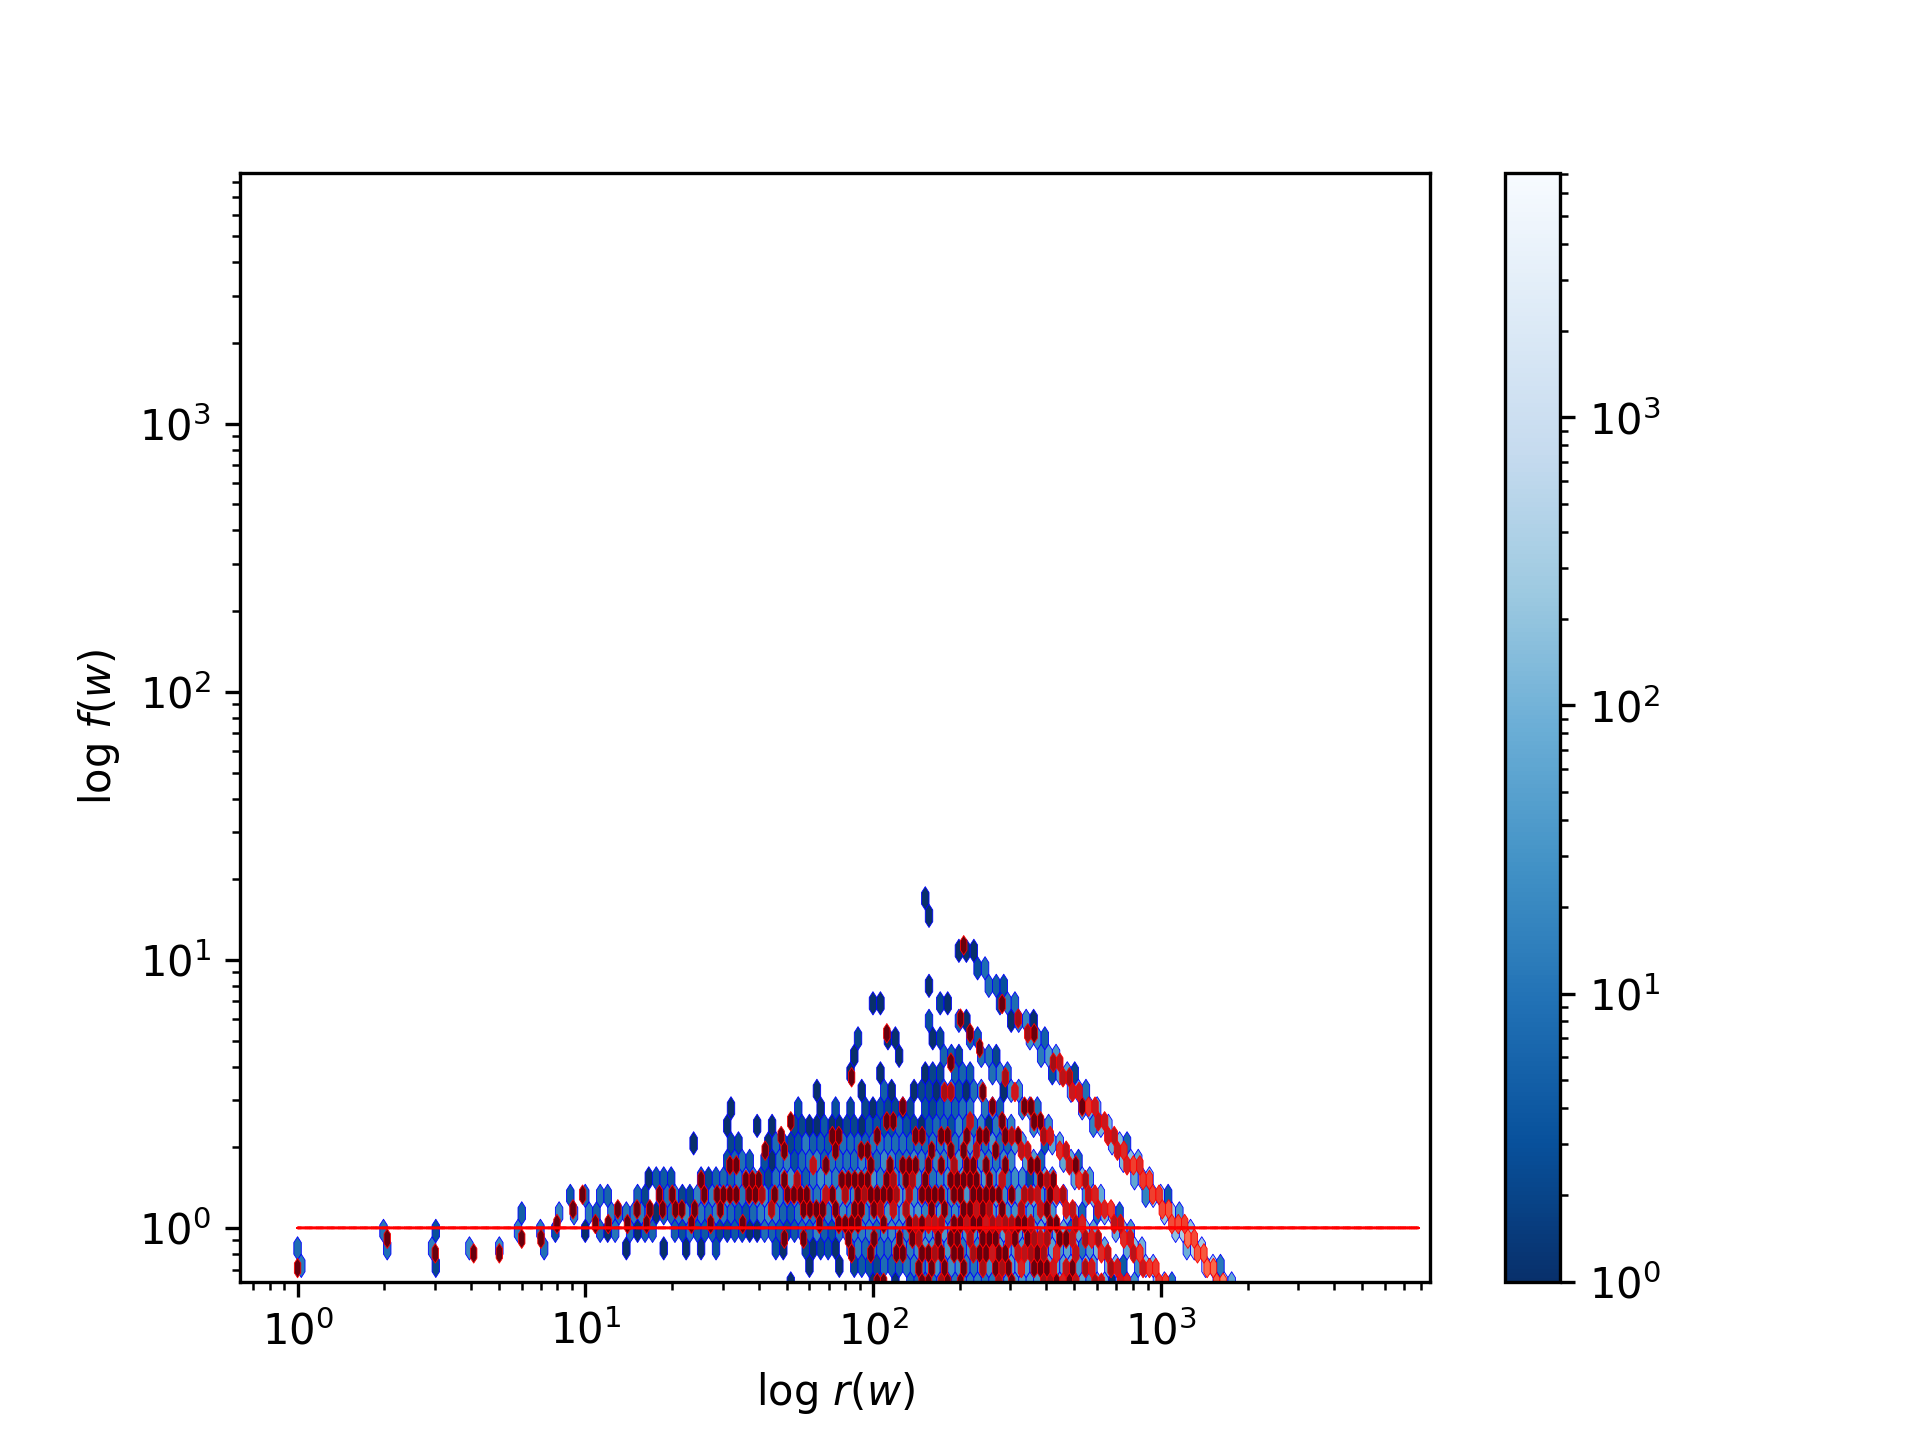
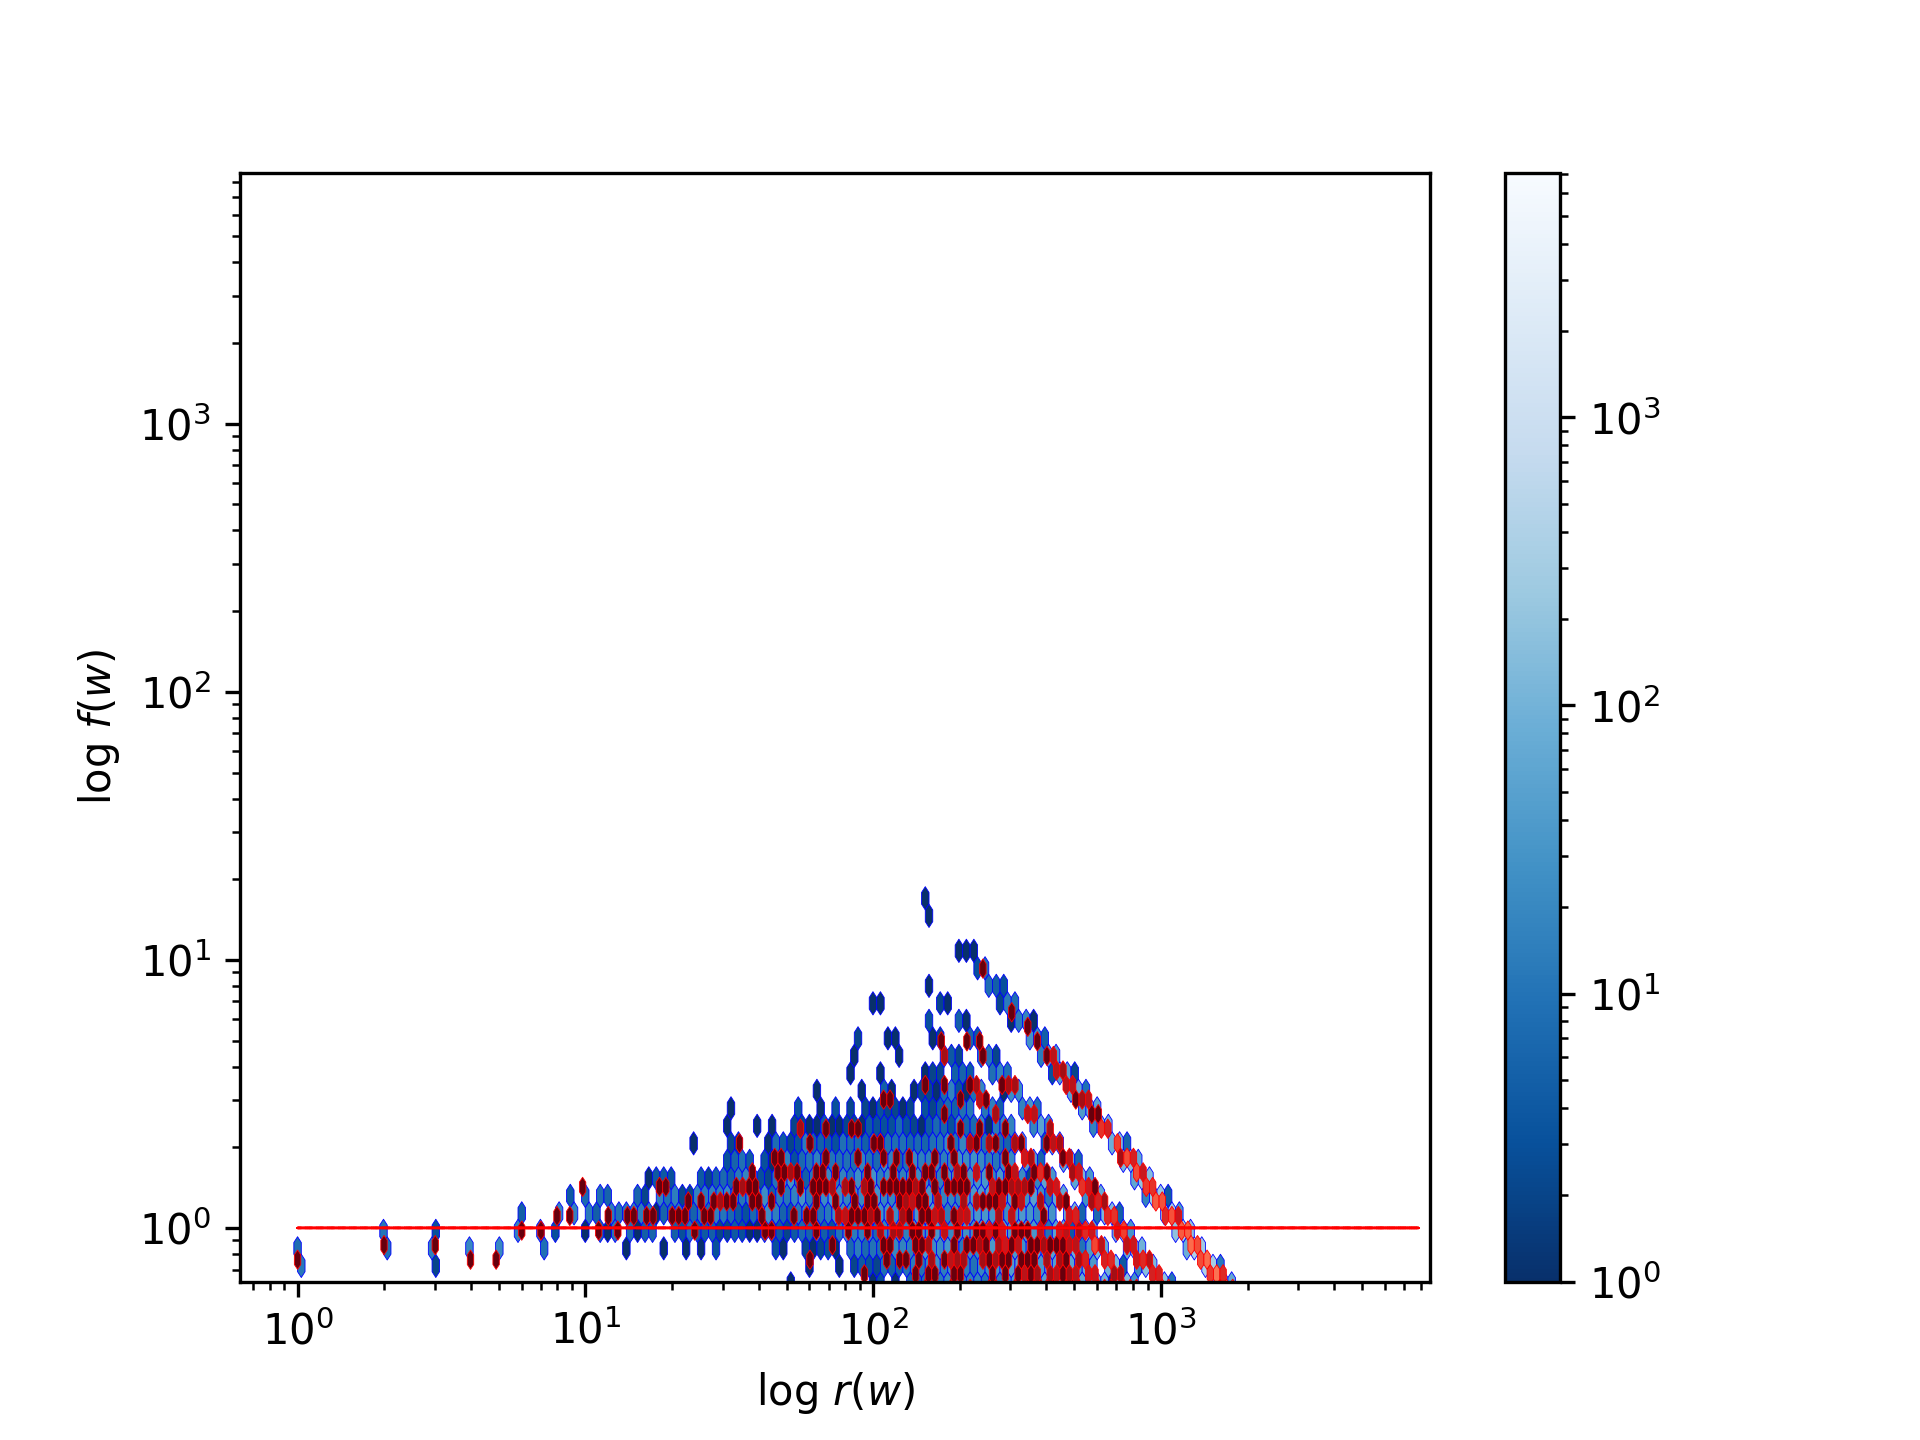
first attempt plotting

Changed region(s): [[0.2188, 0.6875, 0.6562, 0.9062]]

diff --git a/stats_eval.py b/stats_eval.py
@@ -333,11 +333,13 @@ if __name__ == "__main__":
 
     heaps = get_stat(10, dir_prefix=stat_dir)
     
-    ImprovedHeap.pooled_plot(heaps, "hexbin", cmap="Blues_r", gridsize=50)
-    heaps[0].plot("hexbin", cmap="Reds_r", gridsize=100, cbar=False, edgecolors="red")
+    ImprovedHeap.pooled_plot(heaps, "hexbin", cmap="Blues_r", gridsize=50,
+                             color="blue", label="pooled")
+    heaps[0].plot("hexbin", cmap="Reds_r", gridsize=100, cbar=False, 
+         edgecolors="red", color="red", label="single")
     
     
-#    plt.legend()
+    plt.legend(loc="upper left")
     plt.ylim((0, 5*10**5))
     plt.ticklabel_format(style="sci", scilimits=(0, 0))
     plt.savefig(summary_dir + "heaps", dpi=300)
